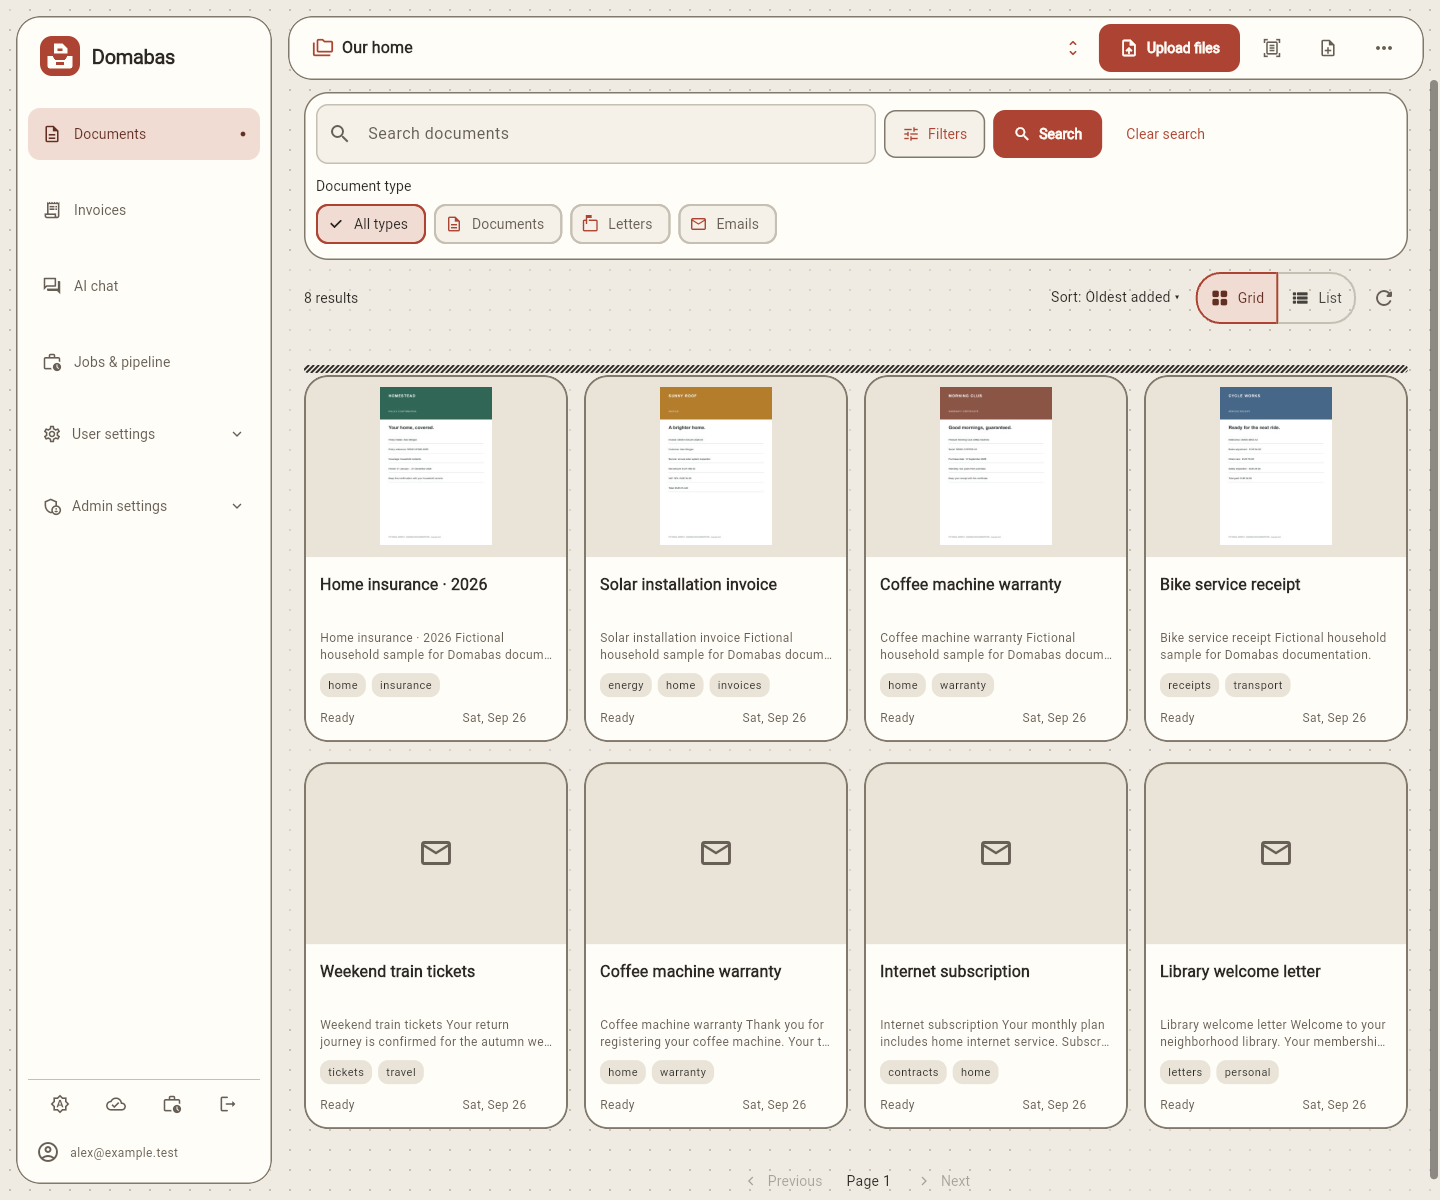
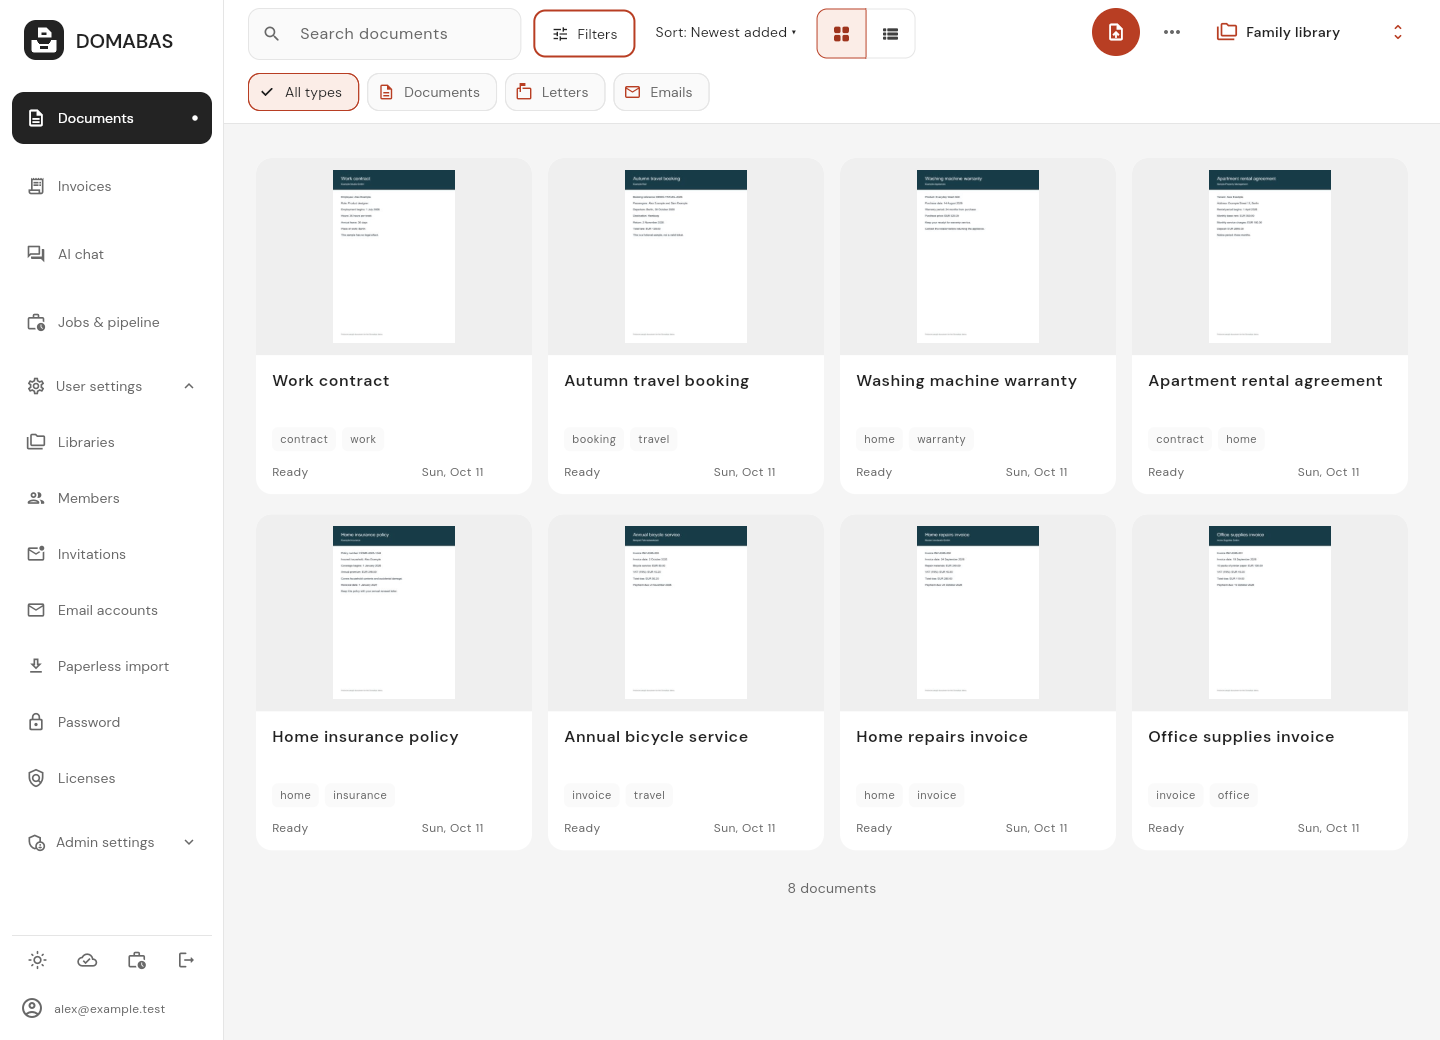
docs: simplify README and refresh product screenshots

diff --git a/readme.md b/readme.md
@@ -1,87 +1,94 @@
-![Domabas document grid with previews and tags for fictional household documents](docs/screenshots/document-grid.png)
-
 # Domabas
 
-**All your home documents. One searchable home.**
+**All your documents, searchable in one central place.**
 
-Stop digging through basement boxes for that one receipt. Domabas is an
-all-in-one solution for digital home document management: collect your paperwork,
-keep it organized, and find it when you need it. From insurance policies and
-invoices to warranties and everyday mail, everything has a home on your own server.
+Domabas is a self-hosted document library. Upload and organize your documents,
+search their contents, and share libraries with other users. Storage, document
+processing and AI can all run on your own hardware.
 
-[Features](#features) · [Screenshots](#screenshots) ·
+[Features](#features) · [AI](#how-ai-is-used) · [Screenshots](#screenshots) ·
 [Hosting](#what-you-need-to-host-it) · [Components](#how-it-fits-together) ·
 [Build an app](#build-an-app-on-your-computer) ·
 [Development guide](docs/development/index.md)
 
 ## Features
 
-| What you can do | How it helps |
-| --- | --- |
-| **Bring every document home** | Upload PDFs, images and emails (EML) from your computer or phone. Preview your originals in one library. |
-| **Save from another mobile app** | Share PDFs and images to Domabas on iOS or Android, confirm the destination library and upload. See [mobile setup](frontend/README.md#sharing-from-other-apps). |
-| **Find it without the exact filename** | Text recognition and full-text indexing make your paperwork searchable. Semantic search finds related content by meaning, with tags and filters to narrow the results. |
-| **Let your inbox file itself** | Connect an IMAP account for automatic email archiving. Supported attachments are extracted into their own documents and linked to the original email. |
-| **Read German e-invoices** | Extract structured invoice data embedded in PDFs, including ZUGFeRD/Factur-X, and view the details alongside the source document. See [supported formats](docs/arch/backend/invoices.md#extraction). |
-| **Spend less time typing invoice data** | Optional AI extracts invoice details from ordinary PDFs and emails. Accuracy depends on the model you choose; extracted values remain available for review. |
-| **Turn paper into a PDF on your phone** | Android and iOS apps include a document scanner with page-edge detection, perspective correction and multi-page drafts. Capture, review and upload to your library. |
-| **Ask your documents** | AI RAG chat searches and reads documents you can access to help answer your questions. Answer quality depends heavily on the model used. |
-| **Keep processing through interruptions** | A durable jobs framework powered by Temporal keeps imports and processing moving through restarts, with retries, visible progress and failure details. |
-| **Organize with less effort** | Categorize documents with tags, or enable AI to generate tags and other document properties for you. |
+- **Upload documents:** Upload PDFs, PNG/JPEG images and email files (EML).
+  Domabas extracts text, runs OCR where needed and creates thumbnails for PDFs
+  and images.
+- **Scan documents on mobile:** Use the camera on Android or iOS to scan pages,
+  review them and upload a PDF to your library.
+- **Search documents:** Use full-text and semantic search to find documents by
+  their words or meaning.
+- **Organize documents:** Add tags and properties, then filter by tag, document
+  type, sender or recipient.
+- **Import email automatically:** Connect an IMAP mailbox to import emails on a
+  schedule. Supported attachments become separate, linked documents.
+- **Read German invoice data:** Read structured invoice data embedded in PDFs,
+  including ZUGFeRD/Factur-X. Optional AI extracts invoice details from ordinary
+  documents. See [supported formats](docs/arch/backend/invoices.md#extraction).
+- **AI chat:** Ask questions about documents you can access, with links to the
+  documents used in the answer.
+- **Import from Paperless-ngx:** Move your documents and supported metadata,
+  including tags, into Domabas.
+- **Multiple libraries and users:** Each user gets a personal library and can
+  share it with other users. Switch between your own and shared libraries, with
+  roles and permissions controlling access.
+- **Run privately:** Host storage, processing, search and AI locally. No cloud
+  account is required. See [data and privacy](docs/development/privacy.md) for
+  optional external services and mobile scanner data flows.
+- **Web, mobile and desktop:** Use the browser app or build apps for Android,
+  iOS, Linux, macOS and Windows. Mobile apps also support sharing documents from
+  other apps. See the [app guide](frontend/README.md).
 
-Keep a personal library or invite others into a shared one with permissions you
-control. Already using Paperless-ngx? Import your existing documents from Settings.
+## How AI is used
 
-Use Domabas in your browser, or build apps for **Android, iOS, Linux, macOS and
-Windows**. Native installation and platform requirements are covered in the
-[app guide](frontend/README.md); mobile scanning is available on Android and iOS.
-Android scanning uses Google ML Kit and requires Google Play services. Images are
-processed on-device; the SDK sends usage and performance metrics to Google. See
-[data and privacy](docs/development/privacy.md#what-other-services-receive).
+Ollama runs the embedding model that turns document text and search queries into
+representations of their meaning. These embeddings make semantic search possible
+and run locally in the default setup, even when optional AI features are disabled.
 
-## Choose your AI
+Ollama can also run models for chat, document properties and invoice extraction.
+Smaller models need less memory and are a starting point. For better answers and
+extraction, we recommend larger, more capable models when your hardware allows.
+You can also connect an OpenAI-compatible service, including one you host yourself.
 
-New installations use `qwen3.5:4b` for chat, document properties and invoice AI.
-Upgrades preserve saved model choices and context settings. Property extraction
-and invoice AI start disabled; administrators can enable them under
-Admin → Document processing. See the [AI configuration guide](docs/development/property-extraction.md)
-for model selection, external providers and GPU setup.
-
-Run models locally with Ollama or connect an OpenAI-compatible service. AI chat
-has its own model settings under Admin → AI chat. Choose models that suit your
-hardware and documents, and review AI-generated results.
-
-Open **User settings → Licenses** to search third-party components and read their
-license notices offline. Distributors should also read the
-[license inventory and commercial review](third_party/README.md#complete-inventory-and-app-screen).
+Chat and AI extraction are still under heavy development. Results depend on the
+model and documents, so review them before relying on them. Property and invoice
+AI start disabled; administrators can enable them under Admin → Document
+processing. Chat has separate settings under Admin → AI chat. See the
+[AI configuration guide](docs/development/property-extraction.md) for model
+selection, providers and GPU setup.
 
 ## Screenshots
 
-The grid at the top and the views below are captured from the running local app
-with fictional sample content.
+These screenshots show the web app with fictional documents and users.
 
-### Follow every job
+**Document grid**
 
-See how an upload becomes a searchable document, then follow its separate invoice
-and AI processing. Jobs & pipeline brings progress and outcomes into one view.
+![Document grid with PDF thumbnails, tags and search controls](docs/screenshots/document-grid.png)
 
-![A completed Domabas ingestion job showing the pipeline from original email to searchable document](docs/screenshots/job-pipeline.png)
+<details>
+<summary>Invoices</summary>
 
-### Connect your email
+![Invoice list showing suppliers, invoice numbers, dates and amounts](docs/screenshots/invoices.png)
 
-Set up your mailbox, choose an import schedule, and let new emails and supported
-attachments arrive in your library automatically.
+</details>
 
-![Domabas email account setup with IMAP connection and automatic import settings](docs/screenshots/email-setup.png)
+<details>
+<summary>Users and shared libraries</summary>
 
-### Make AI work for your setup
+![Library members with their access roles](docs/screenshots/library-members.png)
 
-Choose a local or external model and enable invoice extraction and document
-properties independently.
+</details>
 
-![Domabas document AI settings with provider, model and extraction controls](docs/screenshots/ai-settings.png)
+<details>
+<summary>Processing jobs</summary>
 
-See [screenshot notes](docs/screenshots/index.md) for capture details and more views.
+![A completed document processing job and its recorded stages](docs/screenshots/job-pipeline.png)
+
+</details>
+
+See the [screenshot guide](docs/screenshots/index.md) for capture details.
 
 ## What you need to host it
 
@@ -91,7 +98,7 @@ other development tools on the host.
 | Requirement | Starting point |
 | --- | --- |
 | **Container runtime** | Docker with [Compose v2 or newer](https://docs.docker.com/compose/install/). ARM64 hosts need AMD64 emulation for the current web build stage. |
-| **CPU and memory** | Start with **4 CPU cores and 5 GiB available RAM** for a small home library, plus memory for Ollama models when using AI. Leave capacity for your operating system and other services. |
+| **CPU and memory** | Start with **4 CPU cores and 5 GiB available RAM** for a small home library, plus memory for Ollama's embedding model and any chat or extraction models. Leave capacity for your operating system and other services. |
 | **Storage** | Persistent space for original files, the database, encryption keys and model caches, plus temporary processing space and backups. Size this for your library and chosen models. |
 | **Network** | Internet access for the initial image and model downloads. HTTP works on LAN addresses; HTTPS encrypts traffic for remote access. |
 | **GPU** | Optional. CPU operation is supported; NVIDIA and AMD setups need compatible hardware and drivers. |
@@ -157,22 +164,23 @@ deletion limits, encryption responsibilities and sensitive logging behavior.
 
 ## How it fits together
 
-The app talks to one Go backend. PostgreSQL stores records and job state;
-original files live in persistent storage. Temporal keeps background work moving
-through restarts. The document processor reads files and recognizes text, while
-Ollama provides local models for search and AI features.
+The Flutter app talks to one Go backend, which serves the API and runs background
+workers. PostgreSQL stores application records and job progress, with separate
+databases for Temporal's workflow history. Original files live in persistent
+storage. Temporal coordinates jobs through restarts. A private document processor
+extracts text, runs OCR, creates thumbnails and asks Ollama for search embeddings.
+The backend uses local or optional external models for chat and AI extraction.
 
 ```mermaid
 flowchart TD
-  Browser[Browser] --> Web[Web server and Flutter app]
-  Native[Phone and desktop apps] --> Backend[Go API and background workers]
+  Browser[Flutter web app] --> Web[Web server]
+  Native[Flutter mobile and desktop apps] --> Backend[Go API and background workers]
   Web --> Backend
-  Backend --> Postgres[(PostgreSQL)]
+  Backend --> Postgres[(PostgreSQL: application data)]
   Backend --> Files[(Documents and encryption keys)]
   Backend <--> Temporal[Temporal job orchestration]
-  Temporal --> Postgres
-  Dashboard[Temporal dashboard] --> Temporal
-  Backend --> Processor[Document processor: PDF and text recognition]
+  Temporal --> History[(PostgreSQL: Temporal databases)]
+  Backend --> Processor[Document processor: text, OCR and thumbnails]
   Processor --> Ollama[Ollama: local models]
   Backend --> Ollama
   Backend -. optional .-> External[External AI provider]

diff --git a/docs/screenshots/index.md b/docs/screenshots/index.md
@@ -1,33 +1,29 @@
 # Application screenshots
 
-These images show the running Domabas web application.
-All accounts, email addresses and documents shown are fictional.
+These screenshots show the running Domabas web app in light appearance.
+All documents, accounts and email addresses shown are fictional.
 
 ## README product tour
 
 | Screenshot | View |
 | --- | --- |
-| [Document grid](document-grid.png) | Light appearance, four PDF previews and four email documents with tags; 1440 × 1200. The opening README image. |
-| [Job pipeline](job-pipeline.png) | A completed email ingestion job with recorded timing and all processing stages; 1440 × 1040. |
-| [Email setup](email-setup.png) | An unsaved IMAP setup example using `example.test`, with no password entered and no connection attempted; 1440 × 1040. |
-| [AI settings](ai-settings.png) | The extraction settings dialog with both AI switches enabled as an unsaved example and the default local model; 1440 × 1040. |
+| [Document grid](document-grid.png) | Eight processed PDFs with thumbnails and tags, plus search and filter controls. |
+| [Invoices](invoices.png) | Three extracted CII invoices with suppliers, invoice numbers, issue and due dates, and totals. |
+| [Library members](library-members.png) | A shared library with Owner, User and Viewer access. |
+| [Processing job](job-pipeline.png) | A completed document ingestion job showing extraction, embeddings and search indexing. |
 
-## Additional views
+All images are 1440 × 1040 browser captures. They do not show native apps.
 
-| Screenshot | View |
-| --- | --- |
-| [Document library](document-library.png) | Light appearance, desktop list with searchable email documents and tags; 1440 × 1000. |
-| [Document details](document-details.png) | Email content beside its properties; 1440 × 1000. |
+## Prepare and capture
 
-## Refresh the screenshots
+Keep the product tour short and focused on populated feature views. Use an
+isolated application instance with a disposable database schema, unique Temporal
+queues and separate storage/key directories. Upload fictional documents through
+the real API and wait for processing to finish. Use Playwright MCP to inspect and
+capture the running app. Do not mock UI state or retouch images.
 
-Use an isolated application instance with a disposable database schema, unique
-Temporal queues and separate storage/key directories. Upload fictional documents
-through the real API, wait for processing to finish, and capture the browser UI.
-Do not mock UI state or retouch the images. Close unsaved settings
-examples without saving them.
-
-Inspect every image, then stop the owned processes and clean up only their
-disposable data and workflows. Update the view descriptions above and the
-[README captions](../../readme.md#screenshots) when the views change. Label web
-and native captures accurately.
+Review every image before adding it here and to the
+[README](../../readme.md#screenshots). Label responsive web and native captures
+accurately. Keep local demo credentials and process details in the ignored
+`docs/plans/` directory. Stop only owned processes and remove only their disposable
+data when the demo is no longer needed.

diff --git a/docs/design/index.md b/docs/design/index.md
@@ -14,7 +14,7 @@ share the same controls and layout. Original document pixels keep their own colo
 | Phone and tablet navigation | [Mobile navigation](../arch/frontend/mobile-navigation.md) |
 | Document cards, search and viewer | [Document workspace](../arch/frontend/documents.md) |
 | App mark and platform icons | [Application branding](../arch/frontend/branding.md) |
-| See the real interface and how its images were captured | [Screenshot notes](../screenshots/index.md) |
+| Capture the real interface using fictional data | [Screenshot guide](../screenshots/index.md) |
 
 The Filed Paper mark shows a sheet above an archive tray. Its editable source is
 [domabas-mark.svg](../../frontend/assets/branding/domabas-mark.svg); the square
